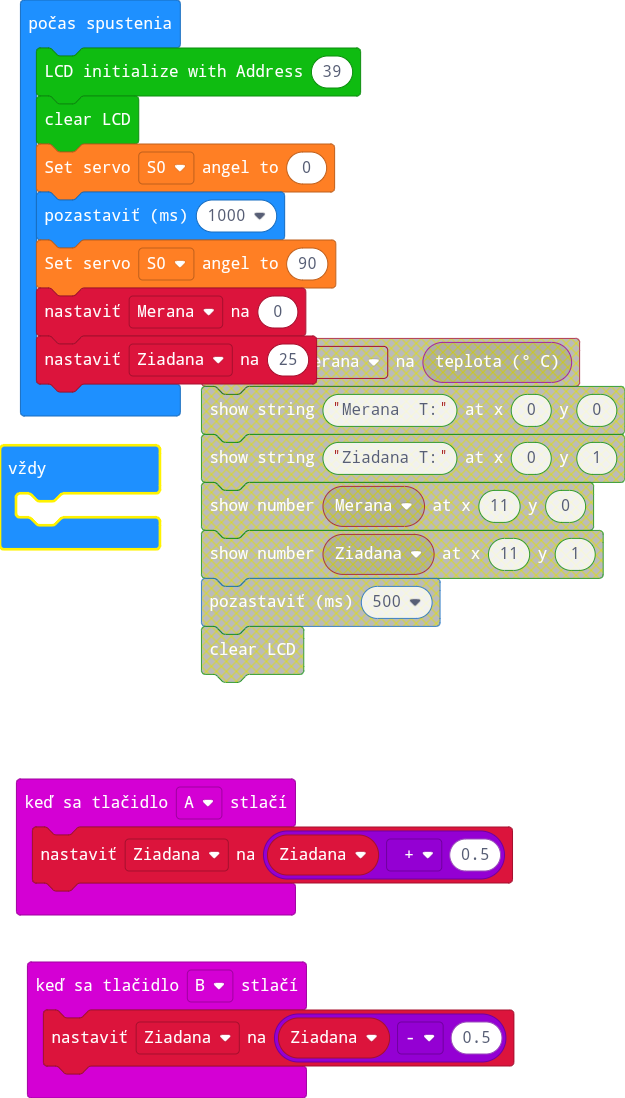
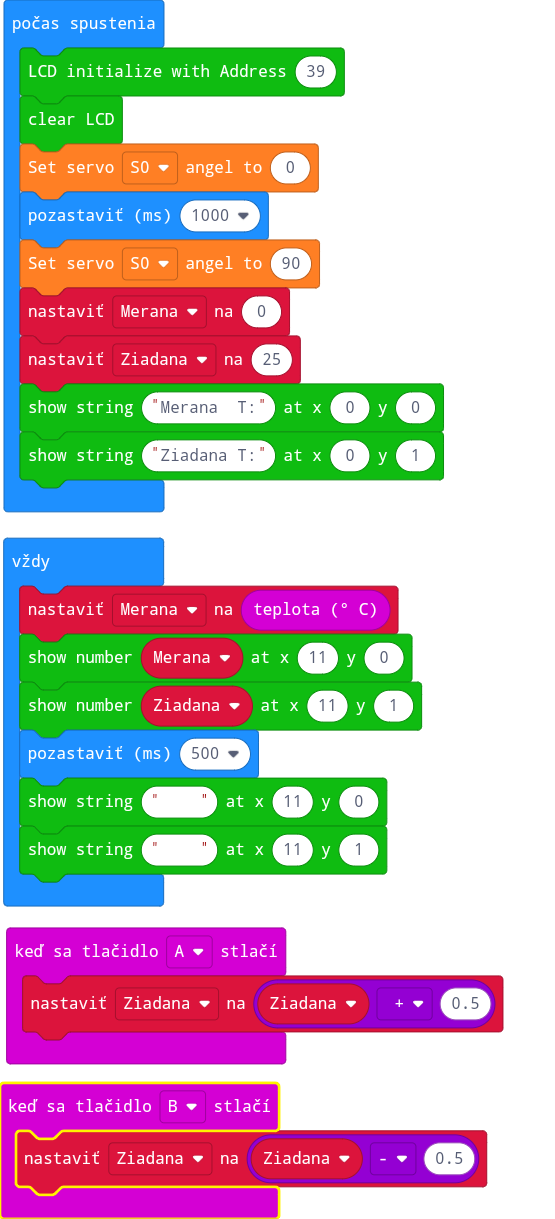
Update main.blocks, main.ts

diff --git a/main.ts b/main.ts
@@ -12,6 +12,13 @@ basic.pause(1000)
 wuKong.setServoAngel(wuKong.ServoList.S0, 90)
 let Merana = 0
 Ziadana = 25
+I2C_LCD1602.ShowString("Merana  T:", 0, 0)
+I2C_LCD1602.ShowString("Ziadana T:", 0, 1)
 basic.forever(function () {
-	
+    Merana = input.temperature()
+    I2C_LCD1602.ShowNumber(Merana, 11, 0)
+    I2C_LCD1602.ShowNumber(Ziadana, 11, 1)
+    basic.pause(500)
+    I2C_LCD1602.ShowString("    ", 11, 0)
+    I2C_LCD1602.ShowString("    ", 11, 1)
 })
